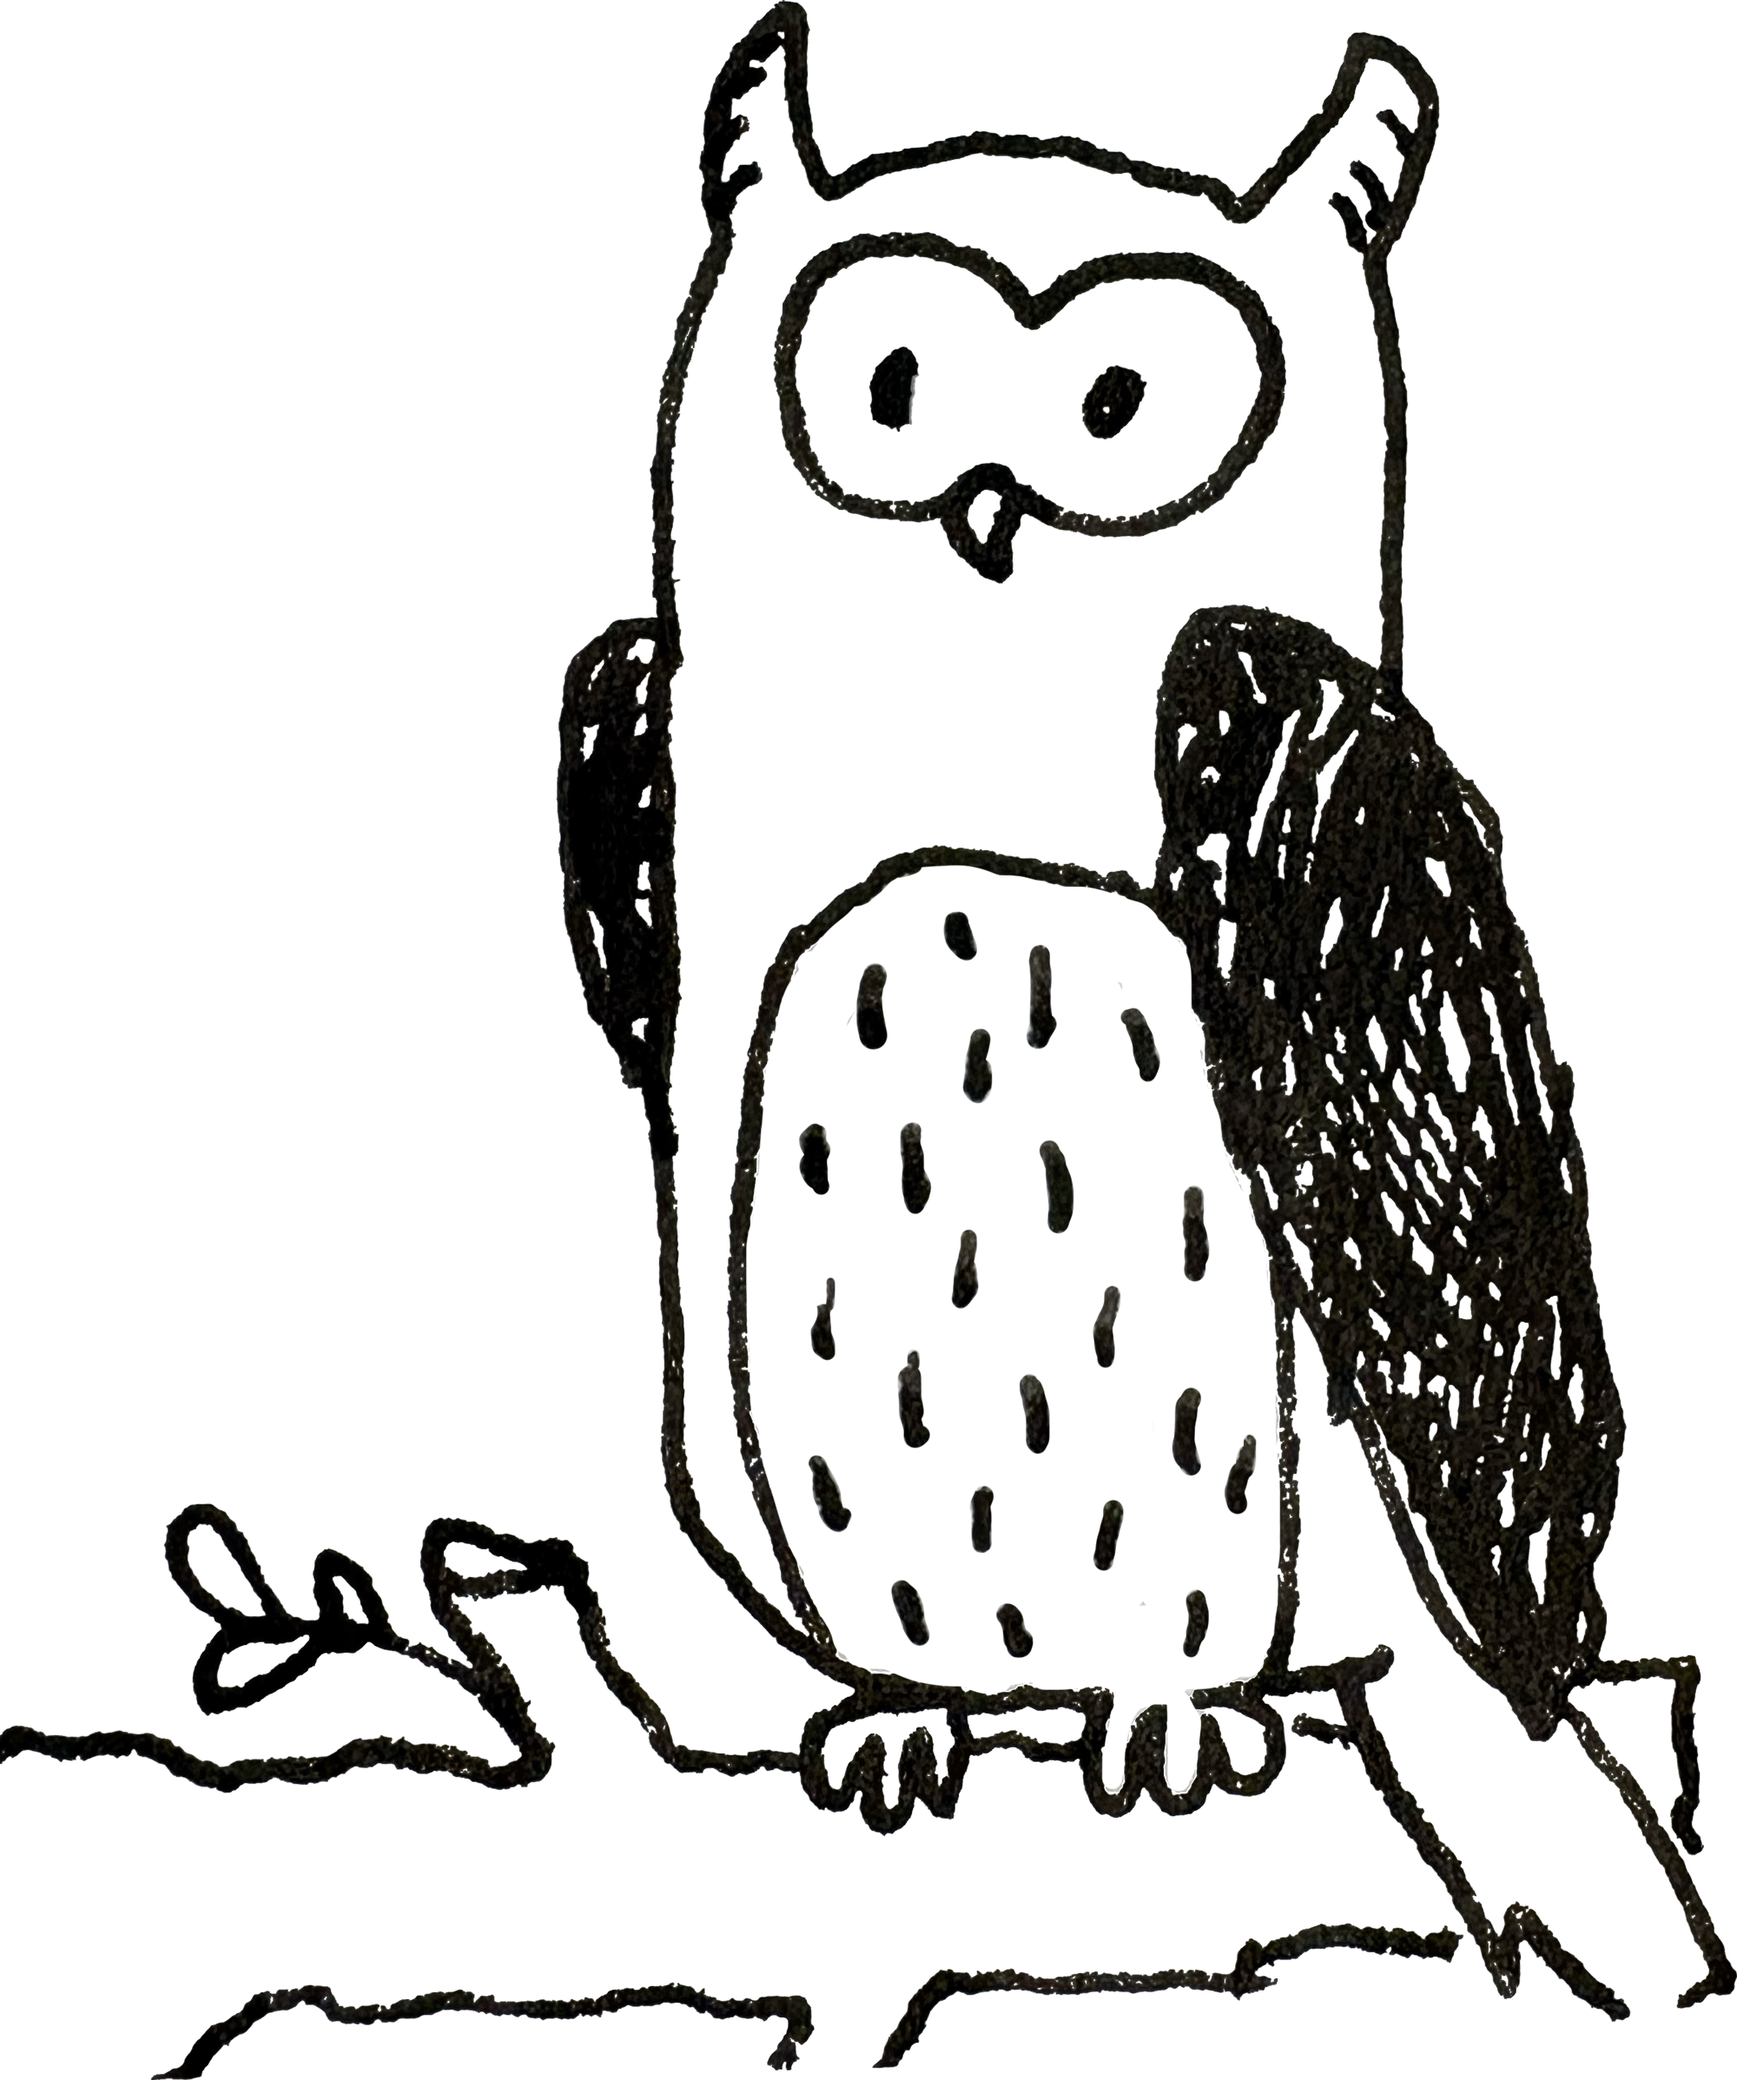
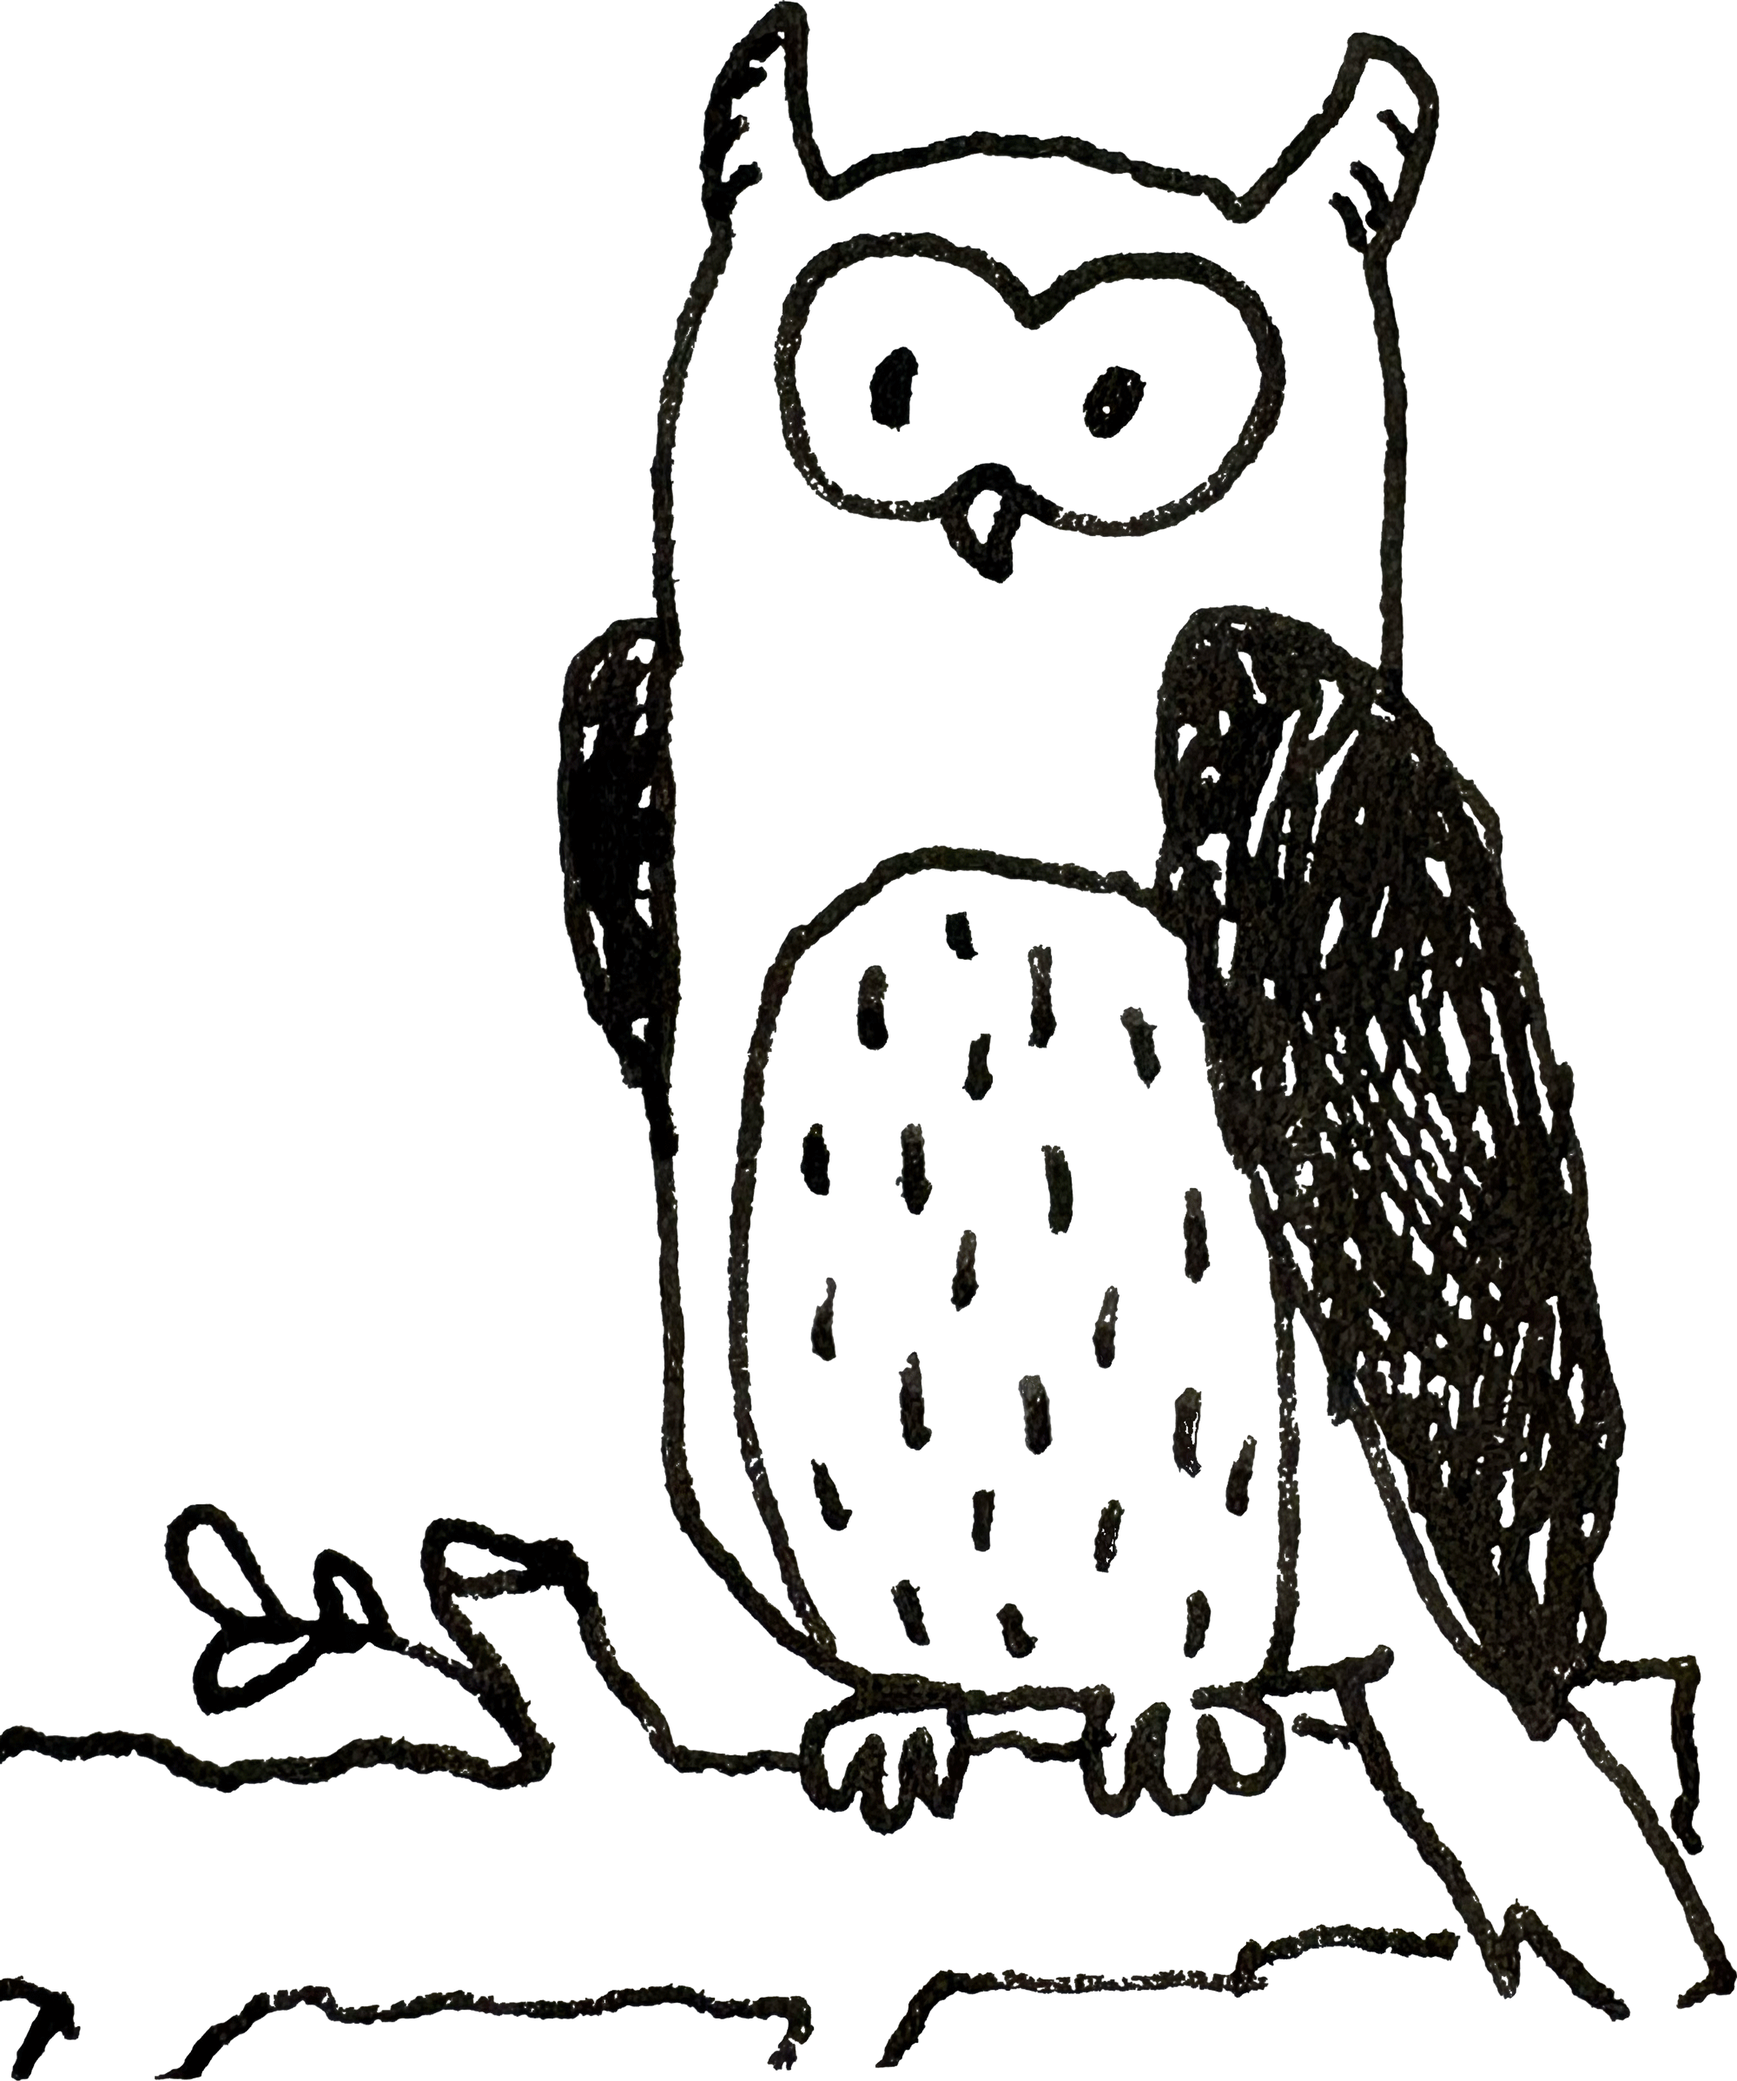
gewisse effekte ausprobiert, version 3 erstellt

diff --git a/index_v3.html b/index_v3.html
@@ -6,7 +6,7 @@
     <meta name="viewport" content="width=device-width, initial-scale=1.0" />
     <meta name="author" content="MILENA WEBER" />
     <meta name="description" content="Meine Persönliche Website, mit meinen Projekten."/>
-    <link rel="stylesheet" href="style_v2.css" />
+    <link rel="stylesheet" href="style_v3.css" />
     <title>Milena Weber</title>
     <link rel="stylesheet" href="https://use.typekit.net/wvs8fnt.css">
   </head>
